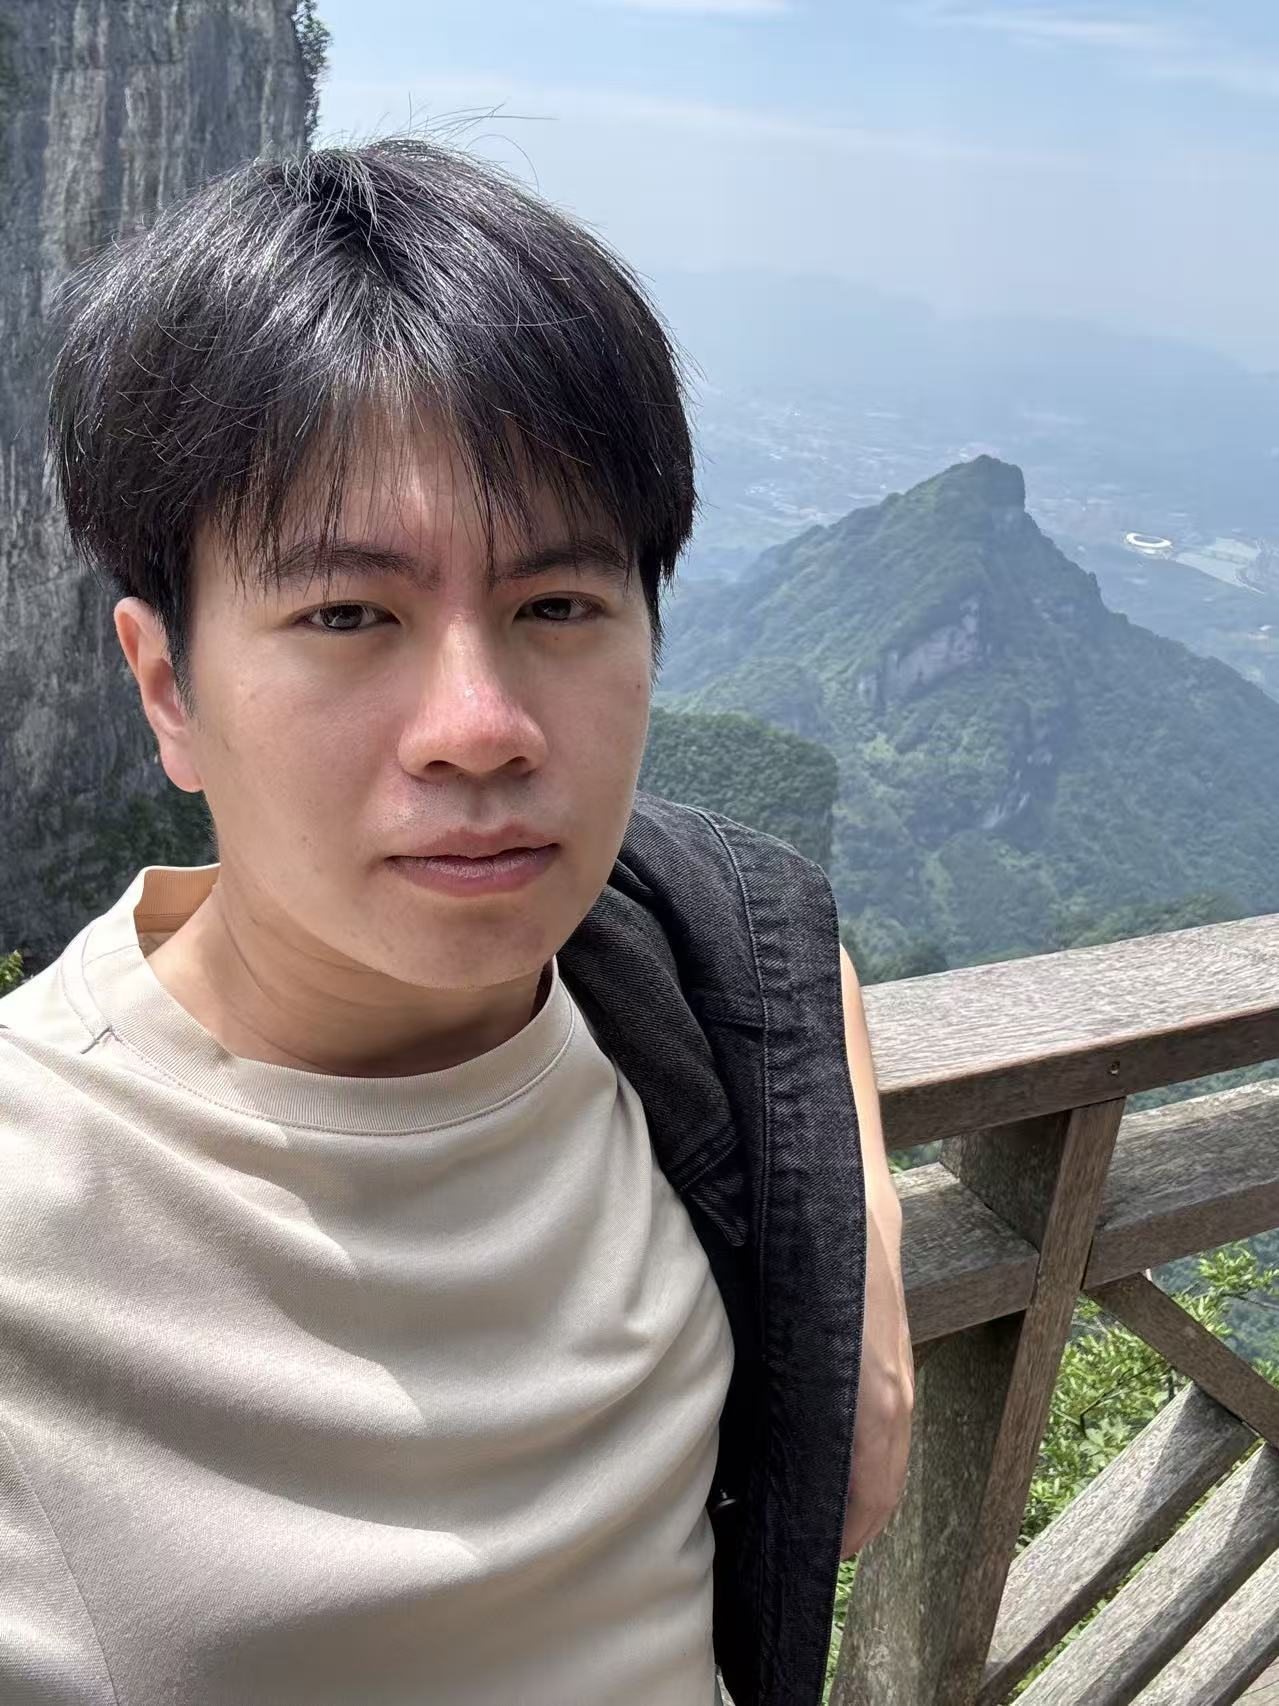
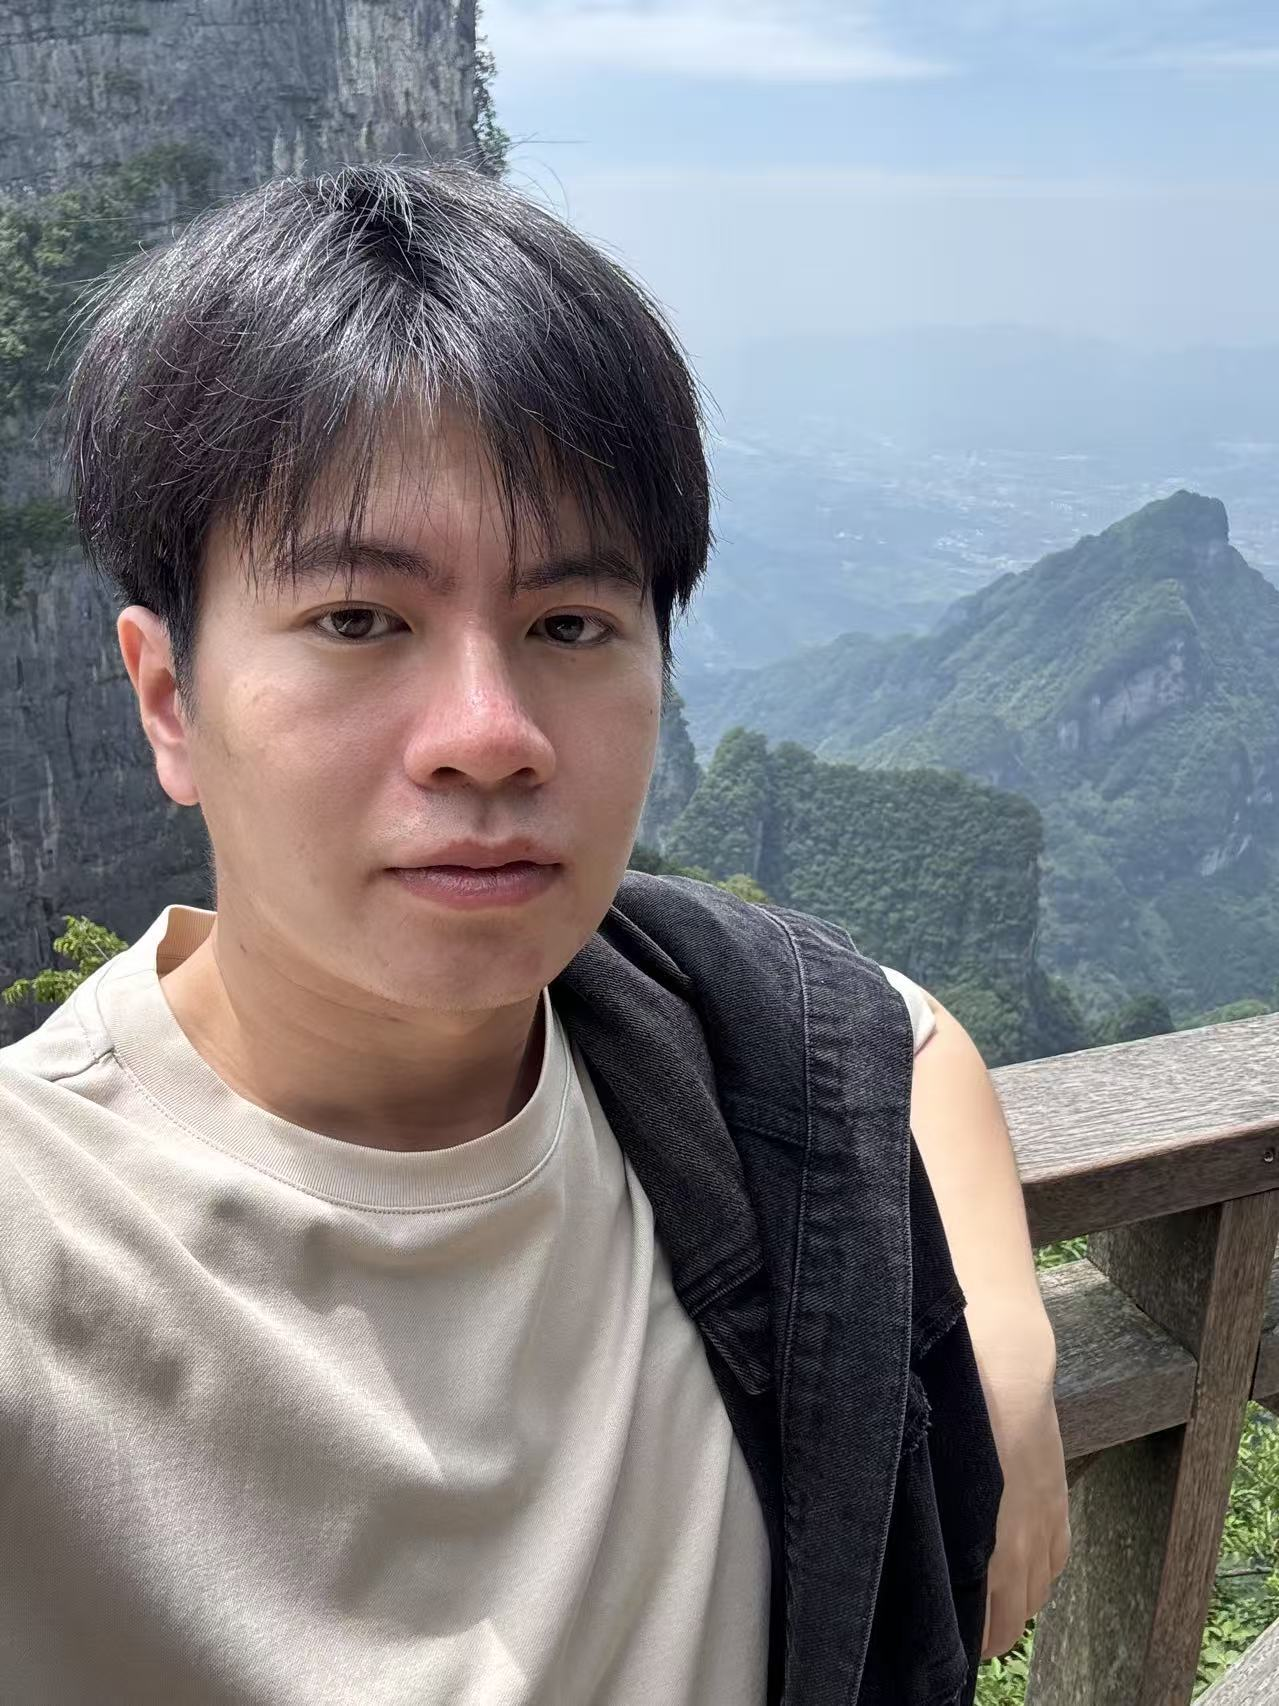
Add Chinese name and refresh profile photo.
Display 陈雨润 alongside Yurun Chen in the sidebar, intro, SEO metadata, and footer, and update the homepage photo asset.

diff --git a/_includes/footer.html b/_includes/footer.html
@@ -1,6 +1,6 @@
 <footer class="page__footer">
   <div class="page__footer-copyright">
-    <p>Copyright © 2025 - All right reserved by Yurun Chen</p>
+    <p>Copyright © 2025 - All right reserved by Yurun Chen (陈雨润)</p>
     <p>Template modified from <a href="https://github.com/academicpages/academicpages.github.io" target="_blank">AcadHomepage</a></p>
   </div>
 </footer>

diff --git a/_pages/about.md b/_pages/about.md
@@ -22,13 +22,13 @@ redirect_from:
 
 <div class="page-intro">
 
-<p>Hi! I'm a <strong>Ph.D. student</strong> at <a href="https://www.zju.edu.cn/english/">Zhejiang University</a>, advised by <a href="https://shengyuzhang.github.io/">Shengyu Zhang</a> and <a href="https://person.zju.edu.cn/ykt">Keting Yin</a>.</p>
+<p>Hi! I'm <strong>Yurun Chen (陈雨润)</strong>, a <strong>Ph.D. student</strong> at <a href="https://www.zju.edu.cn/english/">Zhejiang University</a>, advised by <a href="https://shengyuzhang.github.io/">Shengyu Zhang</a> and <a href="https://person.zju.edu.cn/ykt">Keting Yin</a>.</p>
 
 <p>I study <strong>computer-use agent (CUA) security</strong> and <strong>multi-agent systems</strong> — how adversaries exploit GUI, web, and OS environments, and how to build <strong>predictive guardrails</strong> and secure multi-agent frameworks for agents that operate real computing devices.</p>
 
-<p class="page-stat">Google Scholar · <strong><span id="total_cit">—</span></strong> citations</p>
-
 <p><strong>Open to collaborations</strong> on CUA red-teaming, multi-agent security, guardrails, and agent evaluation. Reach out via <a href="mailto:yurunchen.research@gmail.com">email</a>.</p>
+
+<p class="page-stat">Google Scholar · <strong><span id="total_cit">—</span></strong> citations</p>
 
 </div>
 
